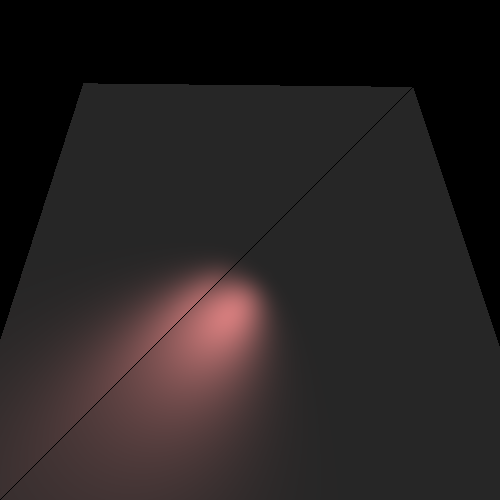
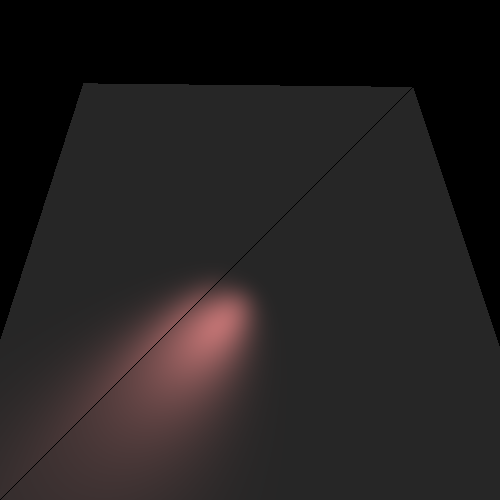
final commit ex4

Changed region(s): [[0.24, 0.51, 0.57, 0.81]]

diff --git a/src/renderer/RayTracerBasic.java b/src/renderer/RayTracerBasic.java
@@ -2,7 +2,6 @@ package renderer;
 
 import static geometries.Intersectable.GeoPoint;
 
-import elements.LightSource;
 import primitives.*;
 
 import static primitives.Util.*;
@@ -18,7 +17,6 @@ public class RayTracerBasic extends RayTracerBase {
 
     /**
      * constructor for RayTracerBasic
-     *
      * @param scene the scene
      */
     public RayTracerBasic(Scene scene) {
@@ -50,8 +48,8 @@ public class RayTracerBasic extends RayTracerBase {
      * According to the pong model
      * This model is additive in which we connect all the components that will eventually
      * make up an image with background colors, self-colors and texture colors.
-     *
      * @param geoPoint the geometry and the lighted point at him
+     * @param ray the ray that goes out of the camera
      * @return the color at the point
      */
     private Color calcColor(GeoPoint geoPoint, Ray ray) {
@@ -74,7 +72,7 @@ public class RayTracerBasic extends RayTracerBase {
         // the angle between n and v give as the the range of the diffusive and specularity
         double nv = alignZero(n.dotProduct(v));
         // The effects of light are not noticeable if our point of view is orthogonal to the object
-        if (isZero(nv)) {
+        if (nv == 0) {
             return Color.BLACK;
         }
         // get the reduces factors of geometry to computer specular and diffusive effects
@@ -83,15 +81,15 @@ public class RayTracerBasic extends RayTracerBase {
 
         Color color = Color.BLACK;
         // Computer the total color at the point from all light sources
-        for (LightSource lightSource : _scene.lights) {
+        for (var lightSource : _scene.lights) {
             Vector l = lightSource.getL(intersection.point);
             double nl = alignZero(n.dotProduct(l));
 
             if (nl * nv > 0) { // sign(nl) == sing(nv) to find out if the vectors l and n ar not negative directions
                 Color lightIntensity = lightSource.getIntensity(intersection.point);
                 color = color
-                        .add(calcDiffusive(kd, l, n, lightIntensity),
-                                calcSpecular(ks, l, n, v, nShininess, lightIntensity));
+                        .add(calcDiffusive(kd, nl, lightIntensity),
+                                calcSpecular(ks, l, n, nl, v, nShininess, lightIntensity));
             }
         }
 
@@ -103,31 +101,31 @@ public class RayTracerBasic extends RayTracerBase {
      * @param ks Percentage of energy going towards the part of the specular
      * @param l direction of the light to the point on the geometry
      * @param n the normal vector of the geometry
+     * @param nl the angle between the normal and the direction from the light to the point
      * @param v the direction from the camera to the point
      * @param nShininess The amount of shininess that goes from the object in which the light strikes
      * @param lightIntensity light intensity from the light source
      * @return the color of the specular light
      */
-    private Color calcSpecular(double ks, Vector l, Vector n, Vector v, double nShininess, Color lightIntensity) {
+    private Color calcSpecular(double ks, Vector l, Vector n, double nl, Vector v, double nShininess, Color lightIntensity) {
         Vector negV = v.scale(-1);
-        double ln = l.dotProduct(n);
         // vector r is the direction of thr reflection of the light from the point at the geometry
-        Vector r = l.add(n.scale(-2 * ln));
+        Vector r = l.add(n.scale(-2 * nl));
+
         double vr = negV.dotProduct(r);
+
         return lightIntensity.scale(ks * Math.pow(Math.max(0, vr), nShininess));
     }
 
     /**
      * Calculates the color of the diffusive light as part of a pong model
      * @param kd Percentage of energy going towards the part of the diffusive
-     * @param l direction of the light to the point on the geometry
-     * @param n the normal vector of the geometry
+     * @param nl the angle between the normal and the direction from the light to the point
      * @param lightIntensity light intensity from the light source
      * @return the color of the diffusive light
      */
-    private Color calcDiffusive(double kd, Vector l, Vector n, Color lightIntensity) {
-        // the angle between the normal and the direction from the light to the point
-        double factor = kd * Math.abs(l.dotProduct(n));
+    private Color calcDiffusive(double kd, double nl, Color lightIntensity) {
+        double factor = kd * Math.abs(nl);
         return lightIntensity.scale(factor);
     }
 }

diff --git a/tests/elements/LightsTests.java b/tests/elements/LightsTests.java
@@ -35,8 +35,8 @@ class LightsTests {
             new Point3D(-150, -150, -150),
             new Point3D(-70, 70, -50),
             new Point3D(75, 75, -150));
-    private static Geometry sphere = new Sphere(50, new Point3D(0, 0, -50)) //
-            .setEmission(new Color(java.awt.Color.BLUE)) //
+    private Geometry sphere = new Sphere(50, new Point3D(0, 0, -50)) //
+            .setEmission(Color.BLUE) //
             .setMaterial(new Material().setKd(0.5).setKs(0.5).setShininess(100));
 
     /**
@@ -205,7 +205,7 @@ class LightsTests {
         scene2.lights.add(new SpotLight(
                 new Color(800, 400, 400),
                 new Point3D(10, -10, -130),
-                new Vector(-2, -2, -1)).setFocus(6)
+                new Vector(-2, -2, -1)).setFocus(12)
                 .setKc(1).setKl(0.0000025).setKq(0.00005));
 
         ImageWriter imageWriter = new ImageWriter("trianglesSpotSharpFocus", 500, 500);
@@ -213,6 +213,25 @@ class LightsTests {
                 .setImageWriter(imageWriter) //
                 .setCamera(camera2) //
                 .setRayTracer(new RayTracerBasic(scene2));
+        render.renderImage();
+        render.writeToImage();
+    }
+
+    @Test
+    public void sphereSpotFocus() {
+        scene1.geometries.add(sphere
+                .setEmission(new Color(148, 183, 176))
+                .setMaterial(sphere.getMaterial().setShininess(150)));
+        scene1.lights.add(new SpotLight(
+                new Color(500, 300, 0), new Point3D(-50, -50, 50), new Vector(1, 1, -2))
+                .setFocus(50)
+                .setKc(1).setKl(0.00000001).setKq(0.00001));
+
+        ImageWriter imageWriter = new ImageWriter("sphereSpotWithFocus", 500, 500);
+        Render render = new Render()//
+                .setImageWriter(imageWriter) //
+                .setCamera(camera1) //
+                .setRayTracer(new RayTracerBasic(scene1));
         render.renderImage();
         render.writeToImage();
     }
